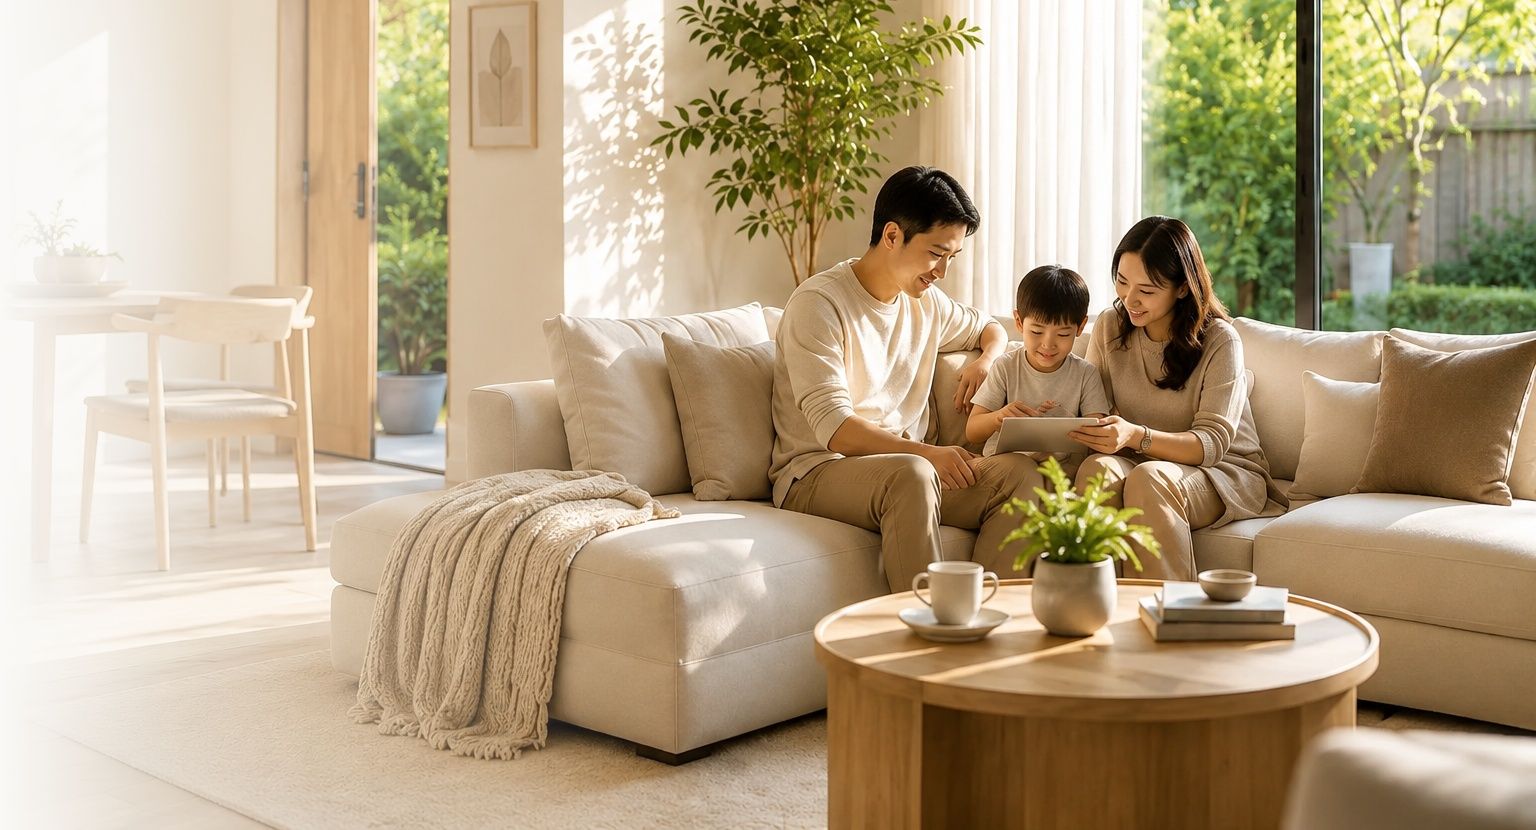
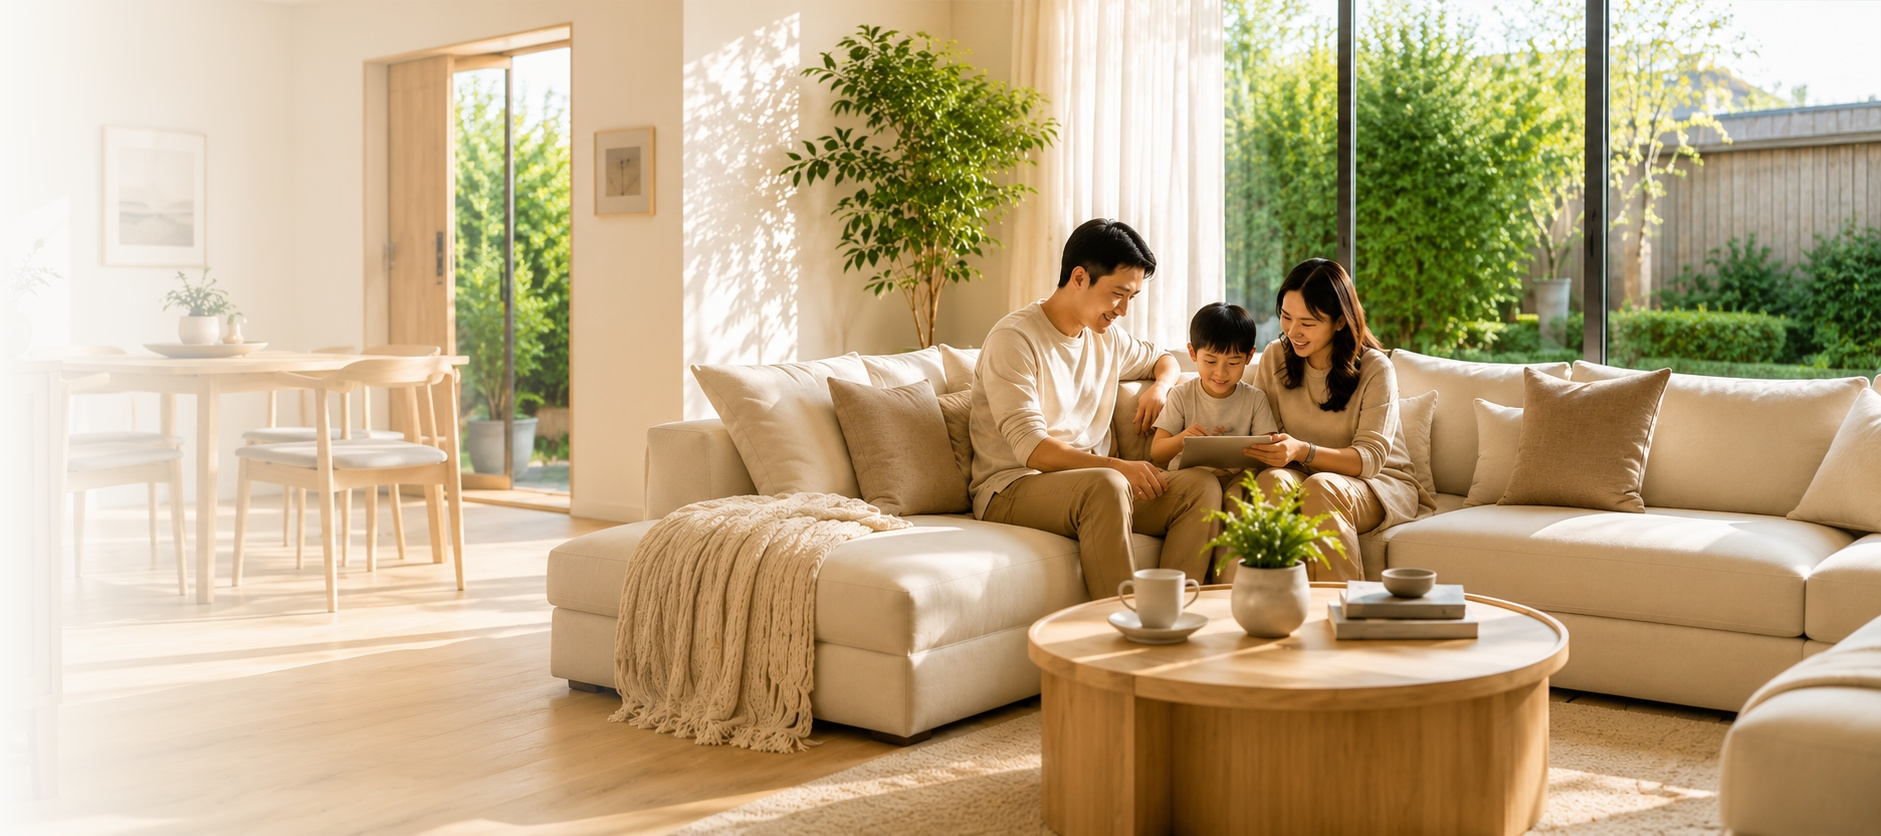
Swap in 4K hero photo, add spacing between feature-card text and photo
New hero-bg.jpg sourced from a wider (2.25:1) 4K photo, same left-fade
treatment reapplied at higher resolution.

Feature card paragraphs had margin: 0, so the photo (pushed to the
bottom via margin-top: auto) sat flush against the text with no gap.
Added margin-bottom: 20px to the paragraph.

Claude-Session: https://claude.ai/code/session_015VMfcbCcZRpeWEW8eBtkqB

diff --git a/styles.css b/styles.css
@@ -569,7 +569,7 @@ h1, h2, h3 {
 
 .feature-card p {
   color: var(--color-text-muted);
-  margin: 0;
+  margin: 0 0 20px;
 }
 
 /* 三大建案總覽 */
